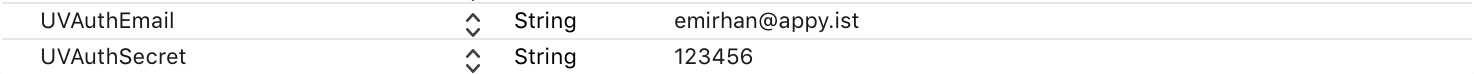
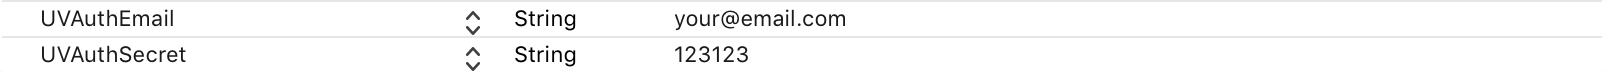
- Documentation is updated. - New screenShot for the credentials.

diff --git a/Documentation.md b/Documentation.md
@@ -26,15 +26,23 @@ Parameters:
 
 - ptr -> UIWindow
 
-- type -> RecordType (Optional parameter, default value is screenAudio)
+- type -> RecordType (Optional parameter, default value is .audioScreen)
 
   **screen:** Records only screen without audio.
 
-  **screenAudio:** Records screen and audio at the same time.
+  **screenAudio:** Records screen and audio at the same time. (Recommended)
+
+- quality -> RecordQuality (Optional parameter, default value is .mid)
+
+  **low:** fps = 5
+
+  **mid:** fps = 10 (Recommended)
+
+  **high** fps = 18
 
 ```swift
 func application(_ application: UIApplication, didFinishLaunchingWithOptions launchOptions: [UIApplicationLaunchOptionsKey: Any]?) -> Bool {
-        UserVision.with(&window, type: RecordType.screenAudio)
+        UserVision.with(&window, type: .screenAudio, quality: .mid)
         return true
     }
 ```
